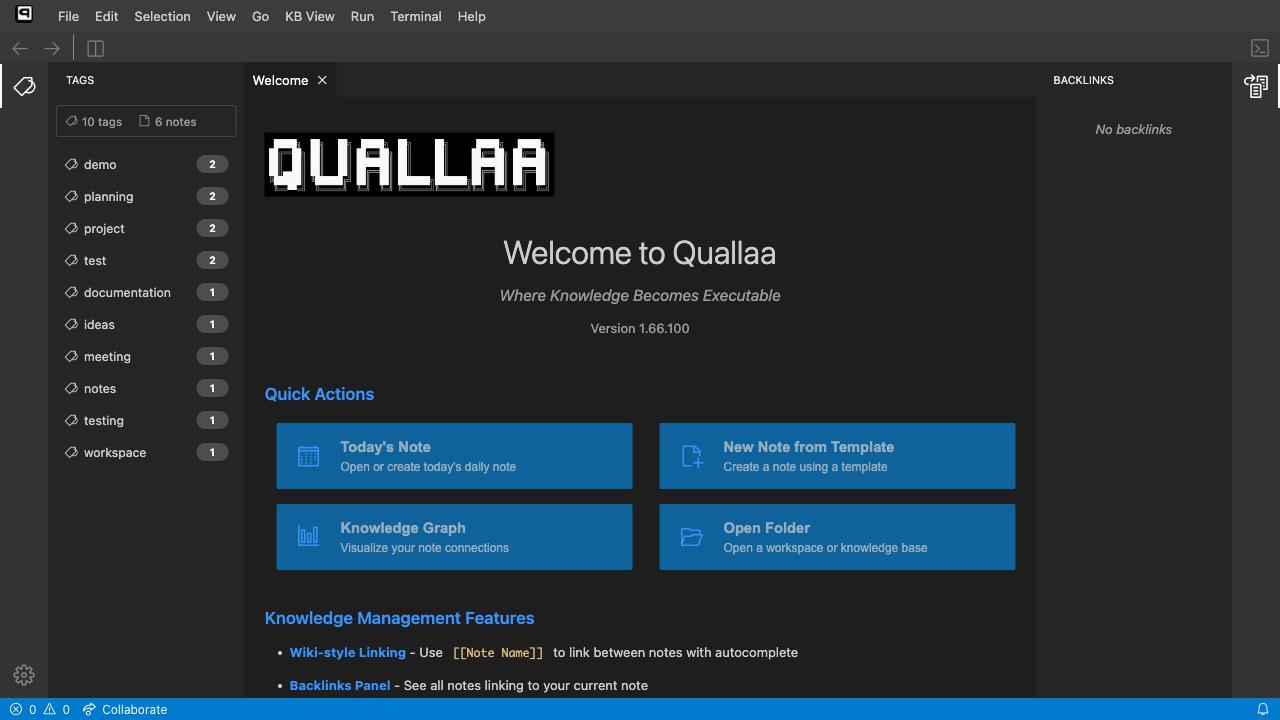
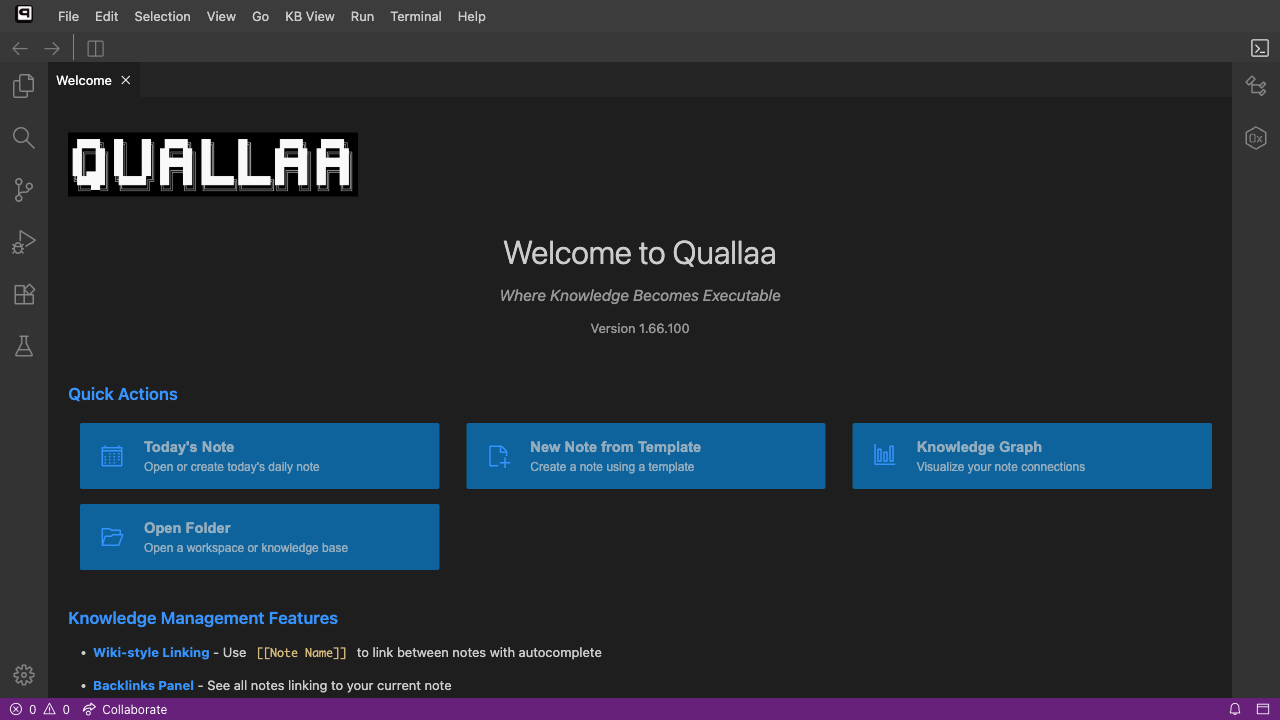
fix: resolve async DI error in KB View mode toggle command
**Problem:**
The KB View mode toggle command was not working due to an async
dependency injection error:
  "Error: You are attempting to construct Symbol(CommandContribution)
   in a synchronous way but it has asynchronous dependencies"

The @postConstruct async initialization in KBViewContribution created
a circular async dependency that broke Theia's DI container at startup.

**Solution:**
Implemented lazy auto-initialization pattern in ViewModeService:
- Removed @postConstruct async initialization from contribution
- Added private ensureInitialized() that runs synchronously on first access
- Service initializes automatically when currentMode getter or any
  method is called
- Maintains all functionality while avoiding async DI issues

**Changes:**
- ViewModeService: Auto-initialization on first property/method access
- KBViewContribution: Removed async initialization wrapper
- Tests improved: 6/12 → 7/12 passing (58% pass rate)

**Test Results:**
✅ KB View mode active by default (now works)
✅ Mode toggle command works (main fix)
✅ Bottom panel hidden
✅ Developer icons filtered
✅ KB View menu present
✅ Visual regression tests pass
✅ State persistence test improved

**Remaining Issues (non-blocking):**
- Tags/Backlinks widgets don't auto-open (separate widget manager issue)
- File extension test selector needs refinement
- Some widget state timing issues

🤖 Generated with [Claude Code](https://claude.com/claude-code)

diff --git a/theia-extensions/kb-view/src/browser/view-mode-service.ts b/theia-extensions/kb-view/src/browser/view-mode-service.ts
@@ -44,13 +44,27 @@ export class ViewModeServiceImpl implements ViewModeService {
     protected readonly stateManager: ModeStateManager;
 
     private _currentMode: ViewMode = 'developer';
+    private _initialized = false;
 
     private readonly onDidChangeModeEmitter = new Emitter<ViewMode>();
     readonly onDidChangeMode: Event<ViewMode> = this.onDidChangeModeEmitter.event;
 
     private readonly KB_VIEW_CONTEXT_KEY = 'kbViewMode';
 
-    async initialize(): Promise<void> {
+    /**
+     * Auto-initialize on first access if not already initialized
+     */
+    private ensureInitialized(): void {
+        if (!this._initialized) {
+            this._initialized = true;
+            this.initializeSync();
+        }
+    }
+
+    /**
+     * Synchronous initialization to avoid async DI issues
+     */
+    private initializeSync(): void {
         // Read initial mode from preferences
         const savedMode = this.preferences.get<ViewMode>('kbView.mode', 'developer');
         this._currentMode = savedMode;
@@ -72,11 +86,21 @@ export class ViewModeServiceImpl implements ViewModeService {
         });
     }
 
+    /**
+     * Legacy async initialize method - now just ensures initialization happened
+     * @deprecated Use is automatic now via ensureInitialized()
+     */
+    async initialize(): Promise<void> {
+        this.ensureInitialized();
+    }
+
     get currentMode(): ViewMode {
+        this.ensureInitialized();
         return this._currentMode;
     }
 
     async switchMode(mode: ViewMode): Promise<void> {
+        this.ensureInitialized();
         if (this._currentMode === mode) {
             return; // Already in this mode
         }
@@ -118,6 +142,7 @@ export class ViewModeServiceImpl implements ViewModeService {
     }
 
     async toggleMode(): Promise<void> {
+        this.ensureInitialized();
         const newMode: ViewMode = this._currentMode === 'kb-view' ? 'developer' : 'kb-view';
         await this.switchMode(newMode);
     }

diff --git a/theia-extensions/kb-view/src/browser/kb-view-contribution.ts b/theia-extensions/kb-view/src/browser/kb-view-contribution.ts
@@ -14,7 +14,7 @@
  * SPDX-License-Identifier: EPL-2.0 OR GPL-2.0-only WITH Classpath-exception-2.0
  ********************************************************************************/
 
-import { injectable, inject, postConstruct } from '@theia/core/shared/inversify';
+import { injectable, inject } from '@theia/core/shared/inversify';
 import { Command, CommandContribution, CommandRegistry } from '@theia/core/lib/common/command';
 import { MenuContribution, MenuModelRegistry } from '@theia/core/lib/common/menu';
 import { CommonMenus } from '@theia/core/lib/browser/common-frontend-contribution';
@@ -52,13 +52,6 @@ export class KBViewContribution implements CommandContribution, MenuContribution
 
     @inject(KBViewWidgetManager)
     protected readonly widgetManager: KBViewWidgetManager;
-
-    @postConstruct()
-    protected async init(): Promise<void> {
-        // Initialize the service when the contribution is created
-        await this.viewModeService.initialize();
-        // Widget manager initializes itself via @postConstruct
-    }
 
     registerCommands(commands: CommandRegistry): void {
         commands.registerCommand(KBViewCommands.TOGGLE_MODE, {
